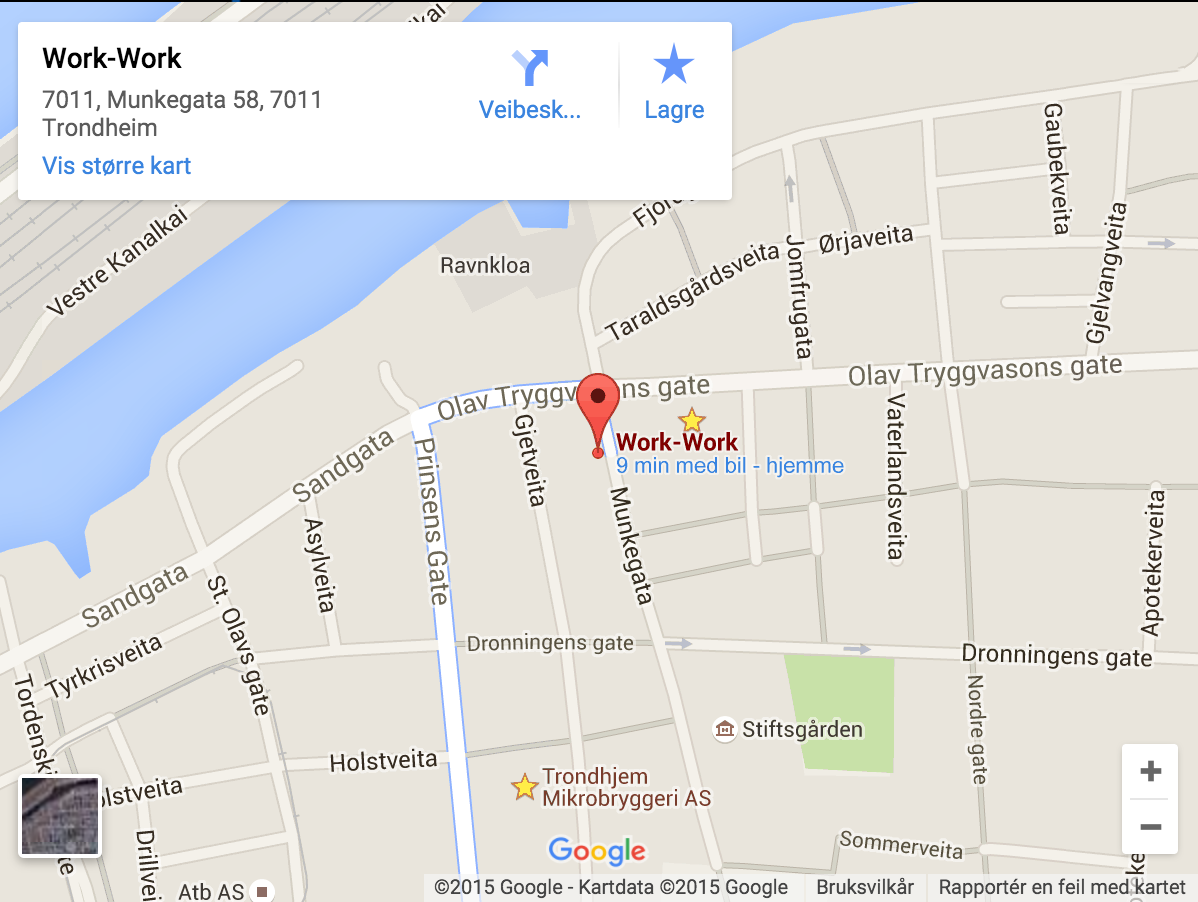
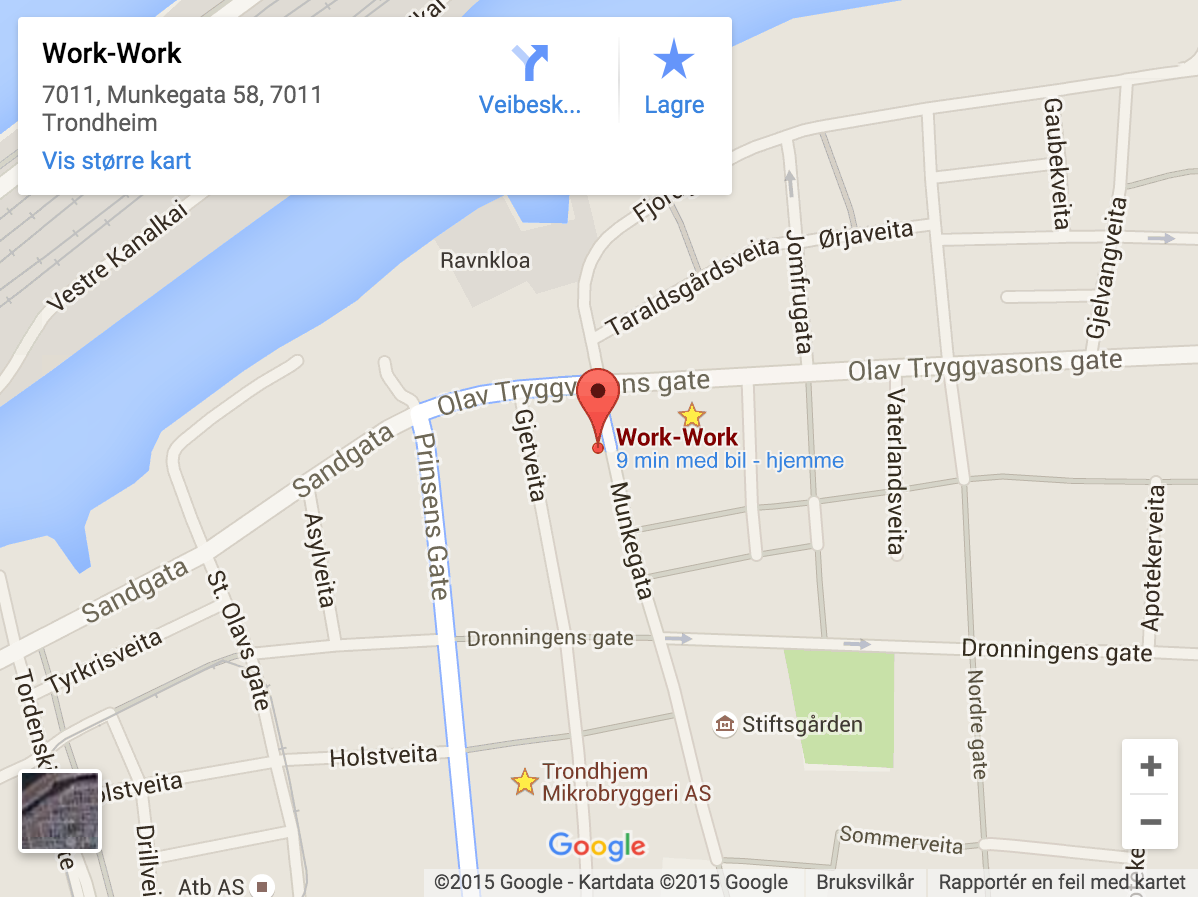
Small typo in readme and cropping map photo to remove black bar

diff --git a/README.md b/README.md
@@ -27,7 +27,7 @@ router.get('/mynewtheme', function(req, res) {
 
 ```
 
-The "menuItems" object contains a list of all menu items available. It's format is `[{name: "item1", price: "12"}, {name: "item2", price: "12"}, ...]`
+The `menuItems` object contains a list of all menu items available. It's format is `[{name: "item1", price: "12"}, {name: "item2", price: "12"}, ...]`
 
 ###2. Create `./views/mynewtheme.jade`
 
